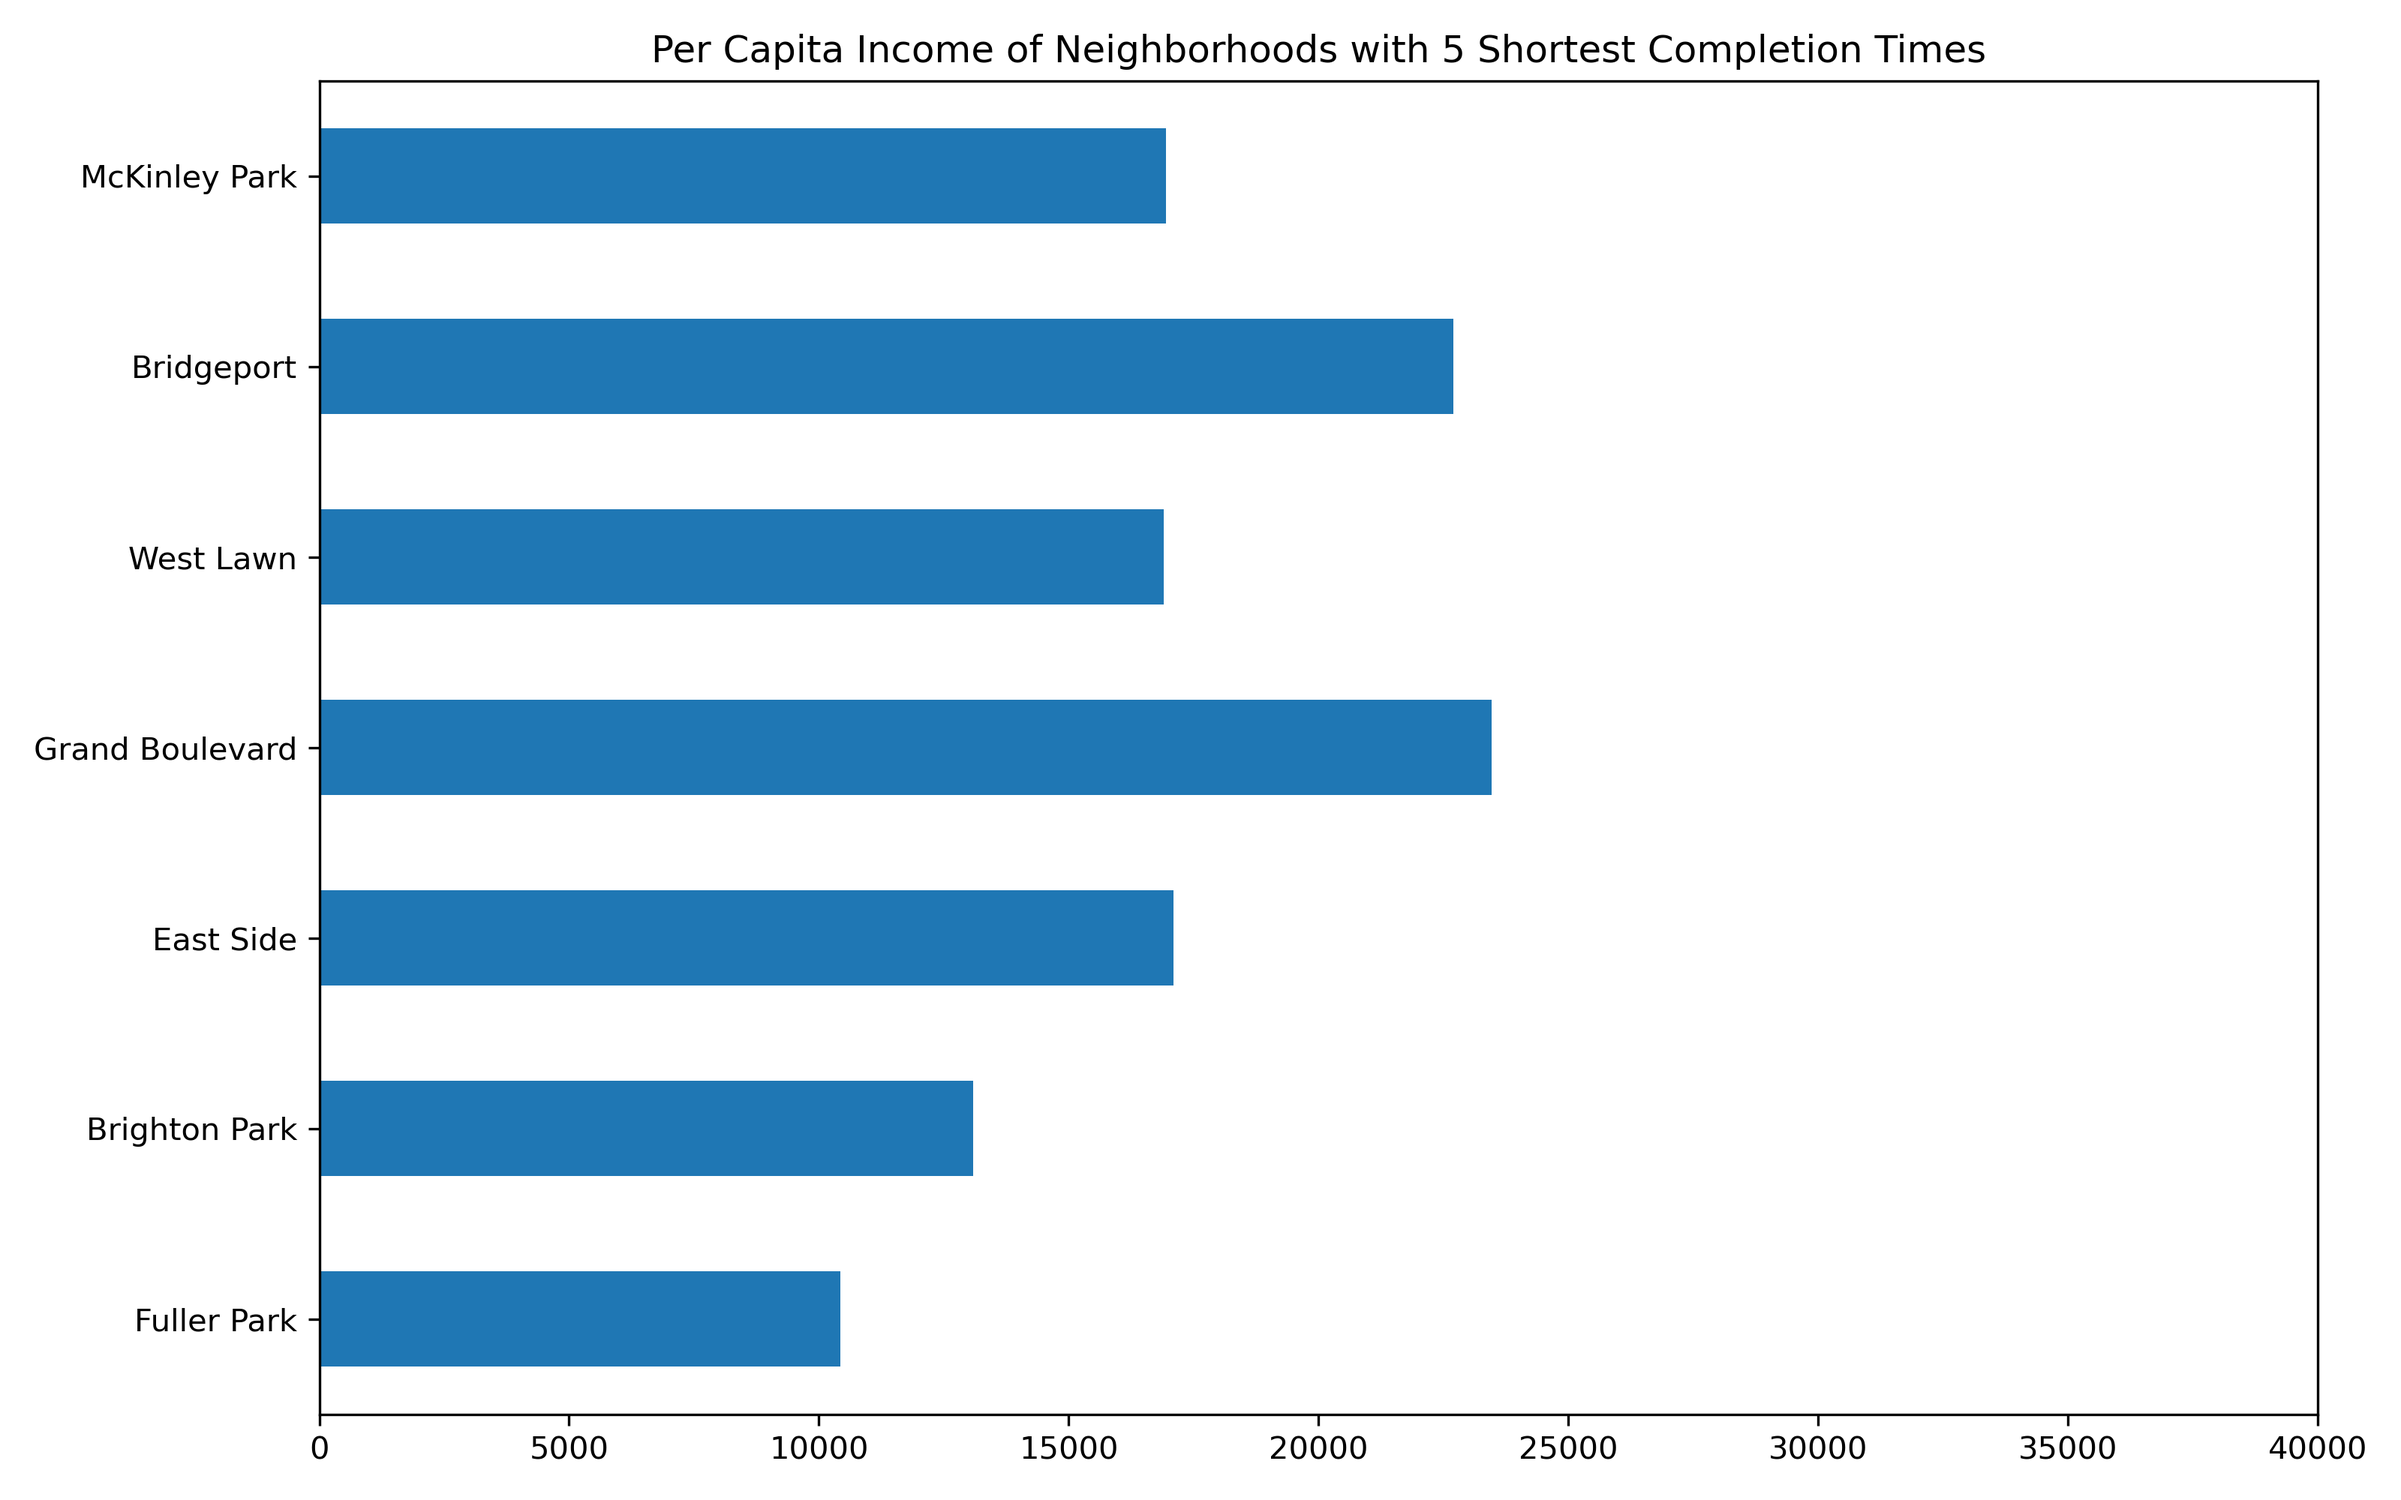
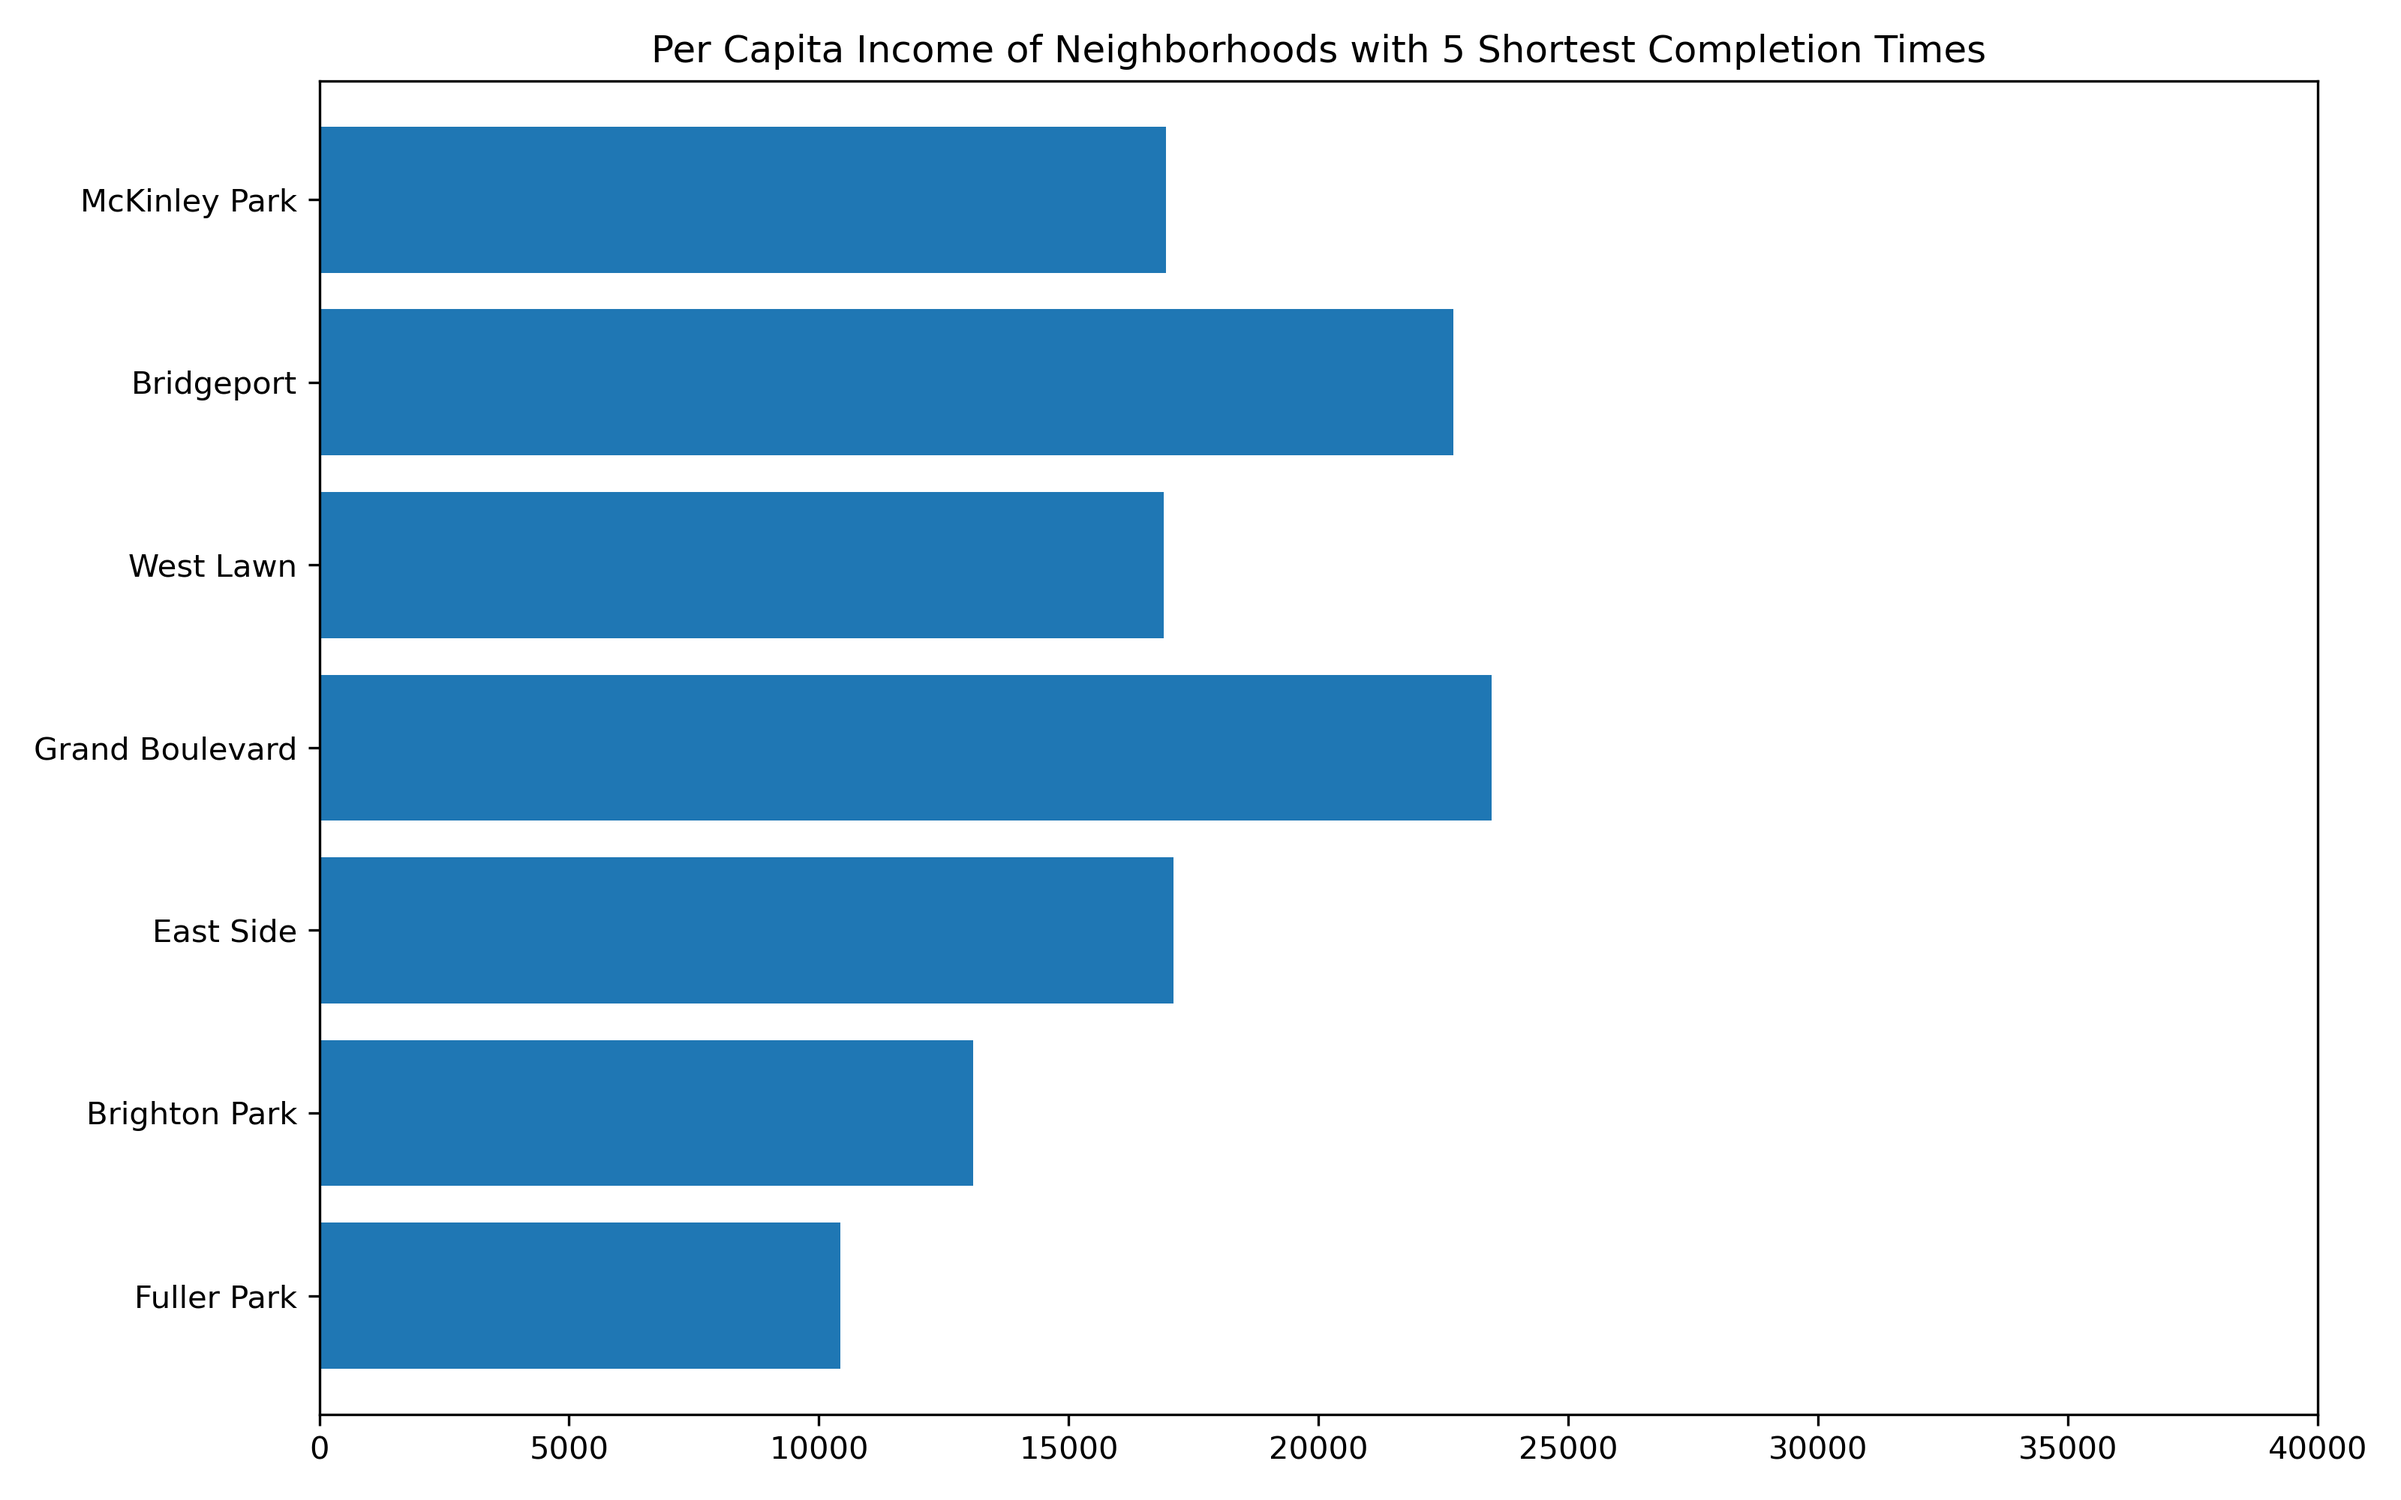
changed graphs and completed readme

diff --git a/README.md b/README.md
@@ -10,5 +10,12 @@ Extensions of your analysis or areas for more research must be included in your 
 You should not include analysis, plots, discoveries, that aren’t directly related to your findings – you can put them as an appendix in another file if you like
 
 ## Analysis: Completion Time and Per Capita Income
-In this part of the analysis, the goal was to explore the relationship between pothole completion times and income in Chicago's 77 community zones. First, the `Completion Time` variable was created by subtracting `Creation Date` from `Completion Date`, then averaging by community zone to find the average pothole completion time per community zone in days. Then, a scatterplot was created with `Per Capita Income` on the x-axis and `Completion Time` on the y-axis. In the plot below, the color scale is coded by `Hardship Index`, which is a scale from 1 - 100 from the City of Chicago's Department of Public Health indicating the level of "hardship" in living in a certain area. For more information, see [here](https://greatcities.uic.edu/2016/09/19/economic-hardship-index-shows-stark-inequality-across-chicago/#:~:text=Some%20of%20the%20highest%20index%20scores%20in%20Chicago,the%20highest%20hardship%20index%20scores%20in%20the%20city.?msclkid=dd0fdca1a95111ec950a83f104985331). We see from this plot that average completion time does not vary much between income levels at the lower range, but completion time significantly falls as per capita income increases. 
+In this part of the analysis, the goal was to explore the relationship between pothole completion times and income in Chicago's 77 community zones. First, the `Completion Time` variable was created by subtracting `Creation Date` from `Completion Date`. Then the `potholes` dataset was grouped by `Community Area`, where we calculated the total counts of potholes and the mean completion time of potholes by community area. This data frame was then merged with the `census_data` data frame into a final form `working_data`, which has each community area and community area name along with their per capita incomes, total counts of potholes over the years, and average completion time.
+
+To visualize this analysis, a scatterplot was created with `Per Capita Income` on the x-axis and `Completion Time` on the y-axis ("artifacts/income_scatter.png").
+In the scatterplot, the color scale is by number of potholes, with the darkest points having the fewest number of potholes and the lighest points having the most potholes in that community zone. We see that in areas with the lowest incomes, even having a smaller number of potholes than in richer areas results in a slower average completion time.
+
+In the following two plots, the per capita income of the neighborhoods with the top 5 longest completion times and top 5 shortest completion times are shown. These metrics were calculated by viewing `working_data.head() ` and `working_data.tail()`. It seems that the incomes of neighborhoods with longer completion times are lower, but this analysis does not include other confounding variables, such as the population of each community area. 
+("artifacts/top_5.png")
+("artifacts/bottom_5.png")
 
